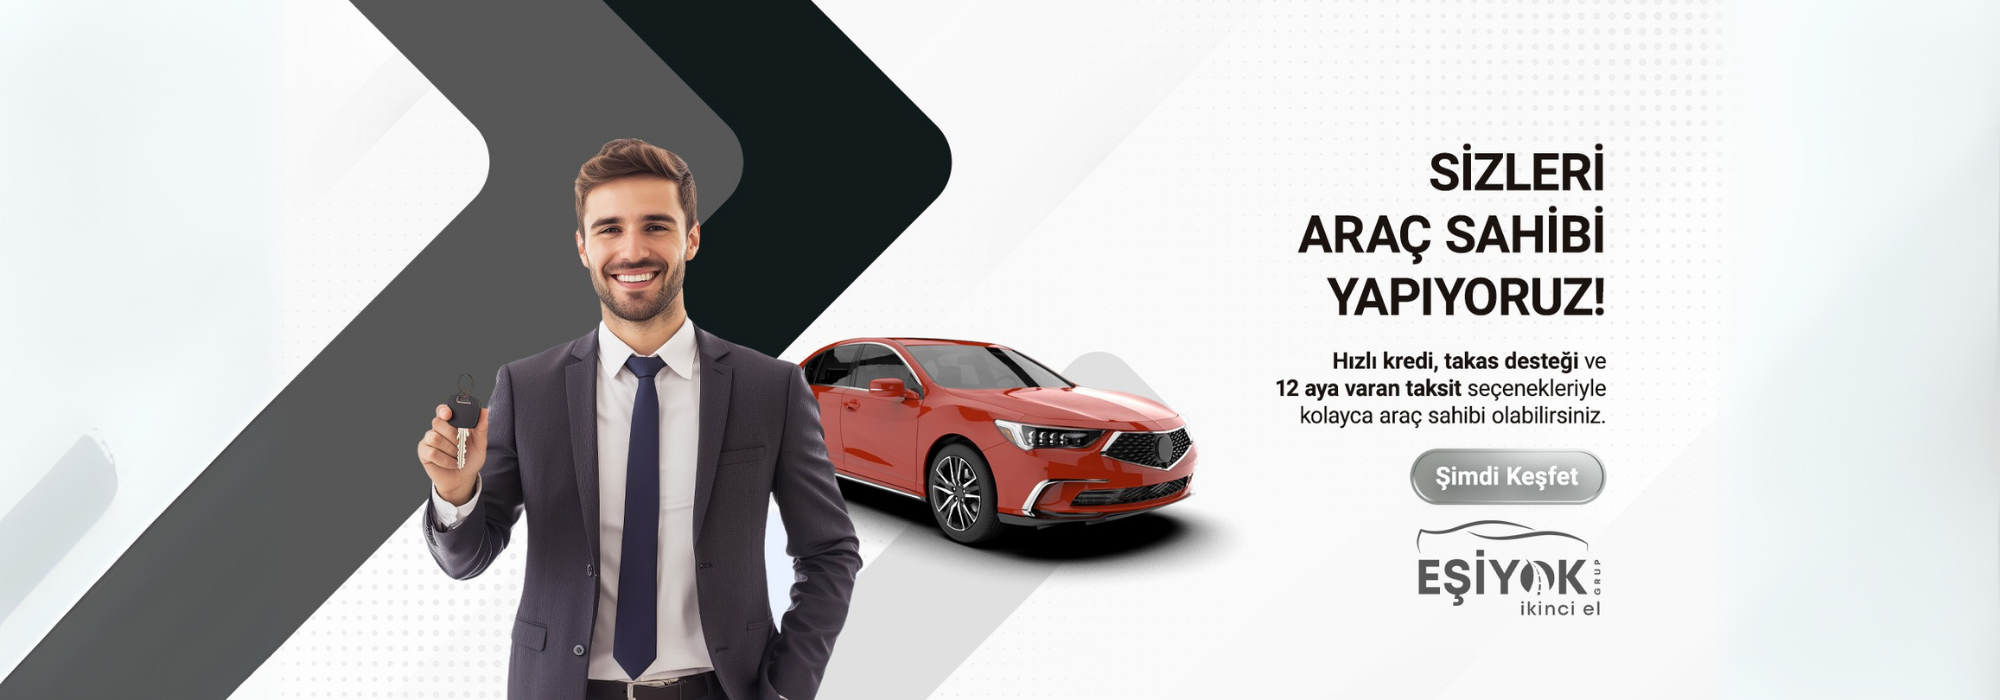
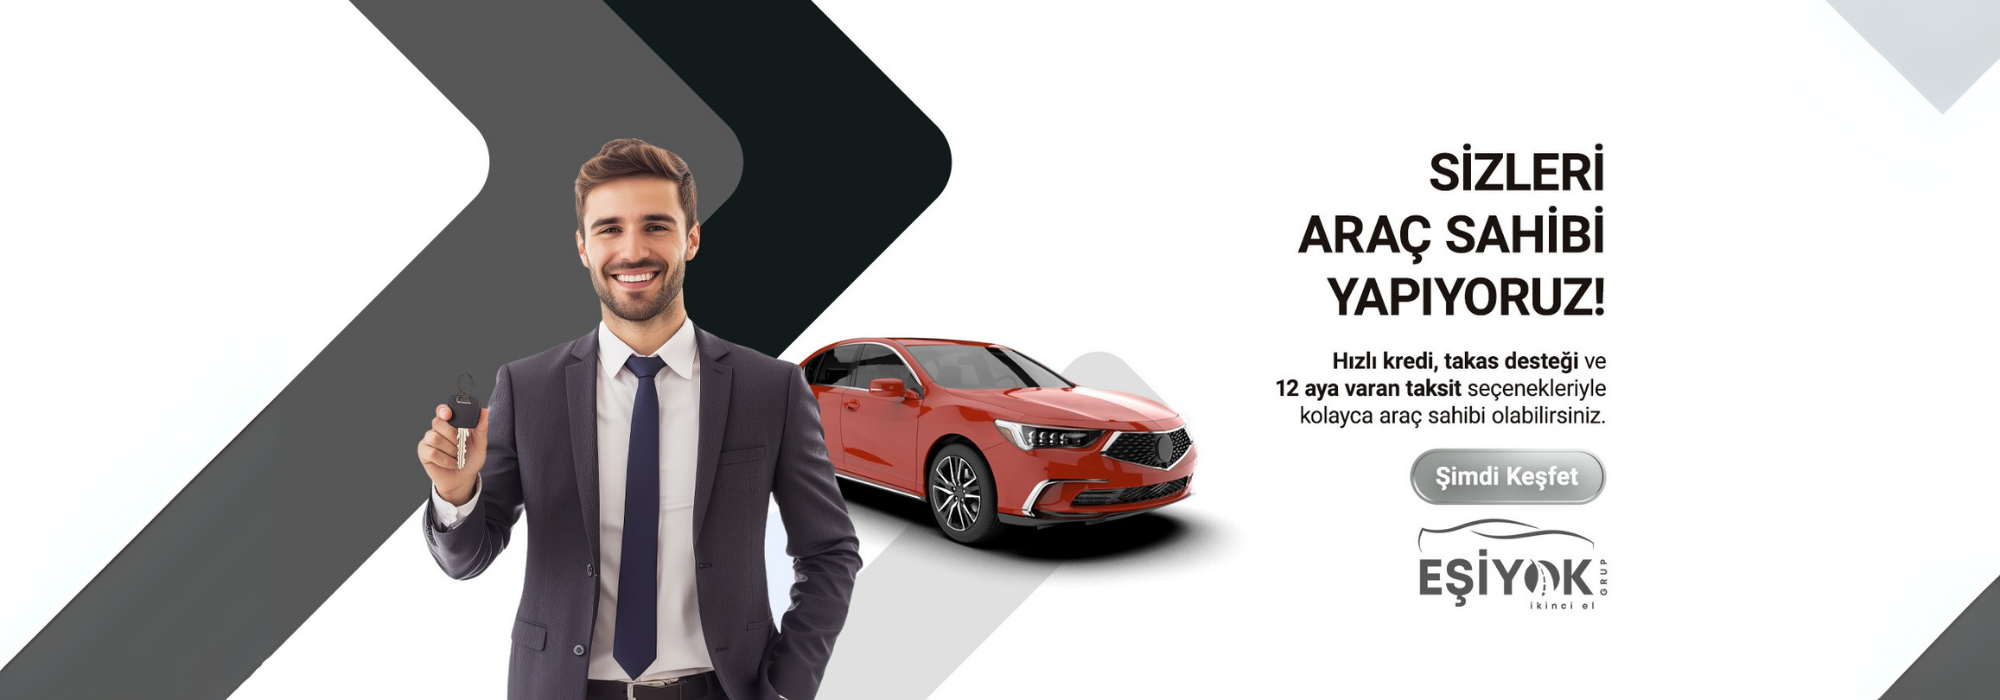
tekrarla

diff --git a/index.html b/index.html
@@ -234,7 +234,7 @@
 </div>
 
 <div id="swm" class="box" data-service-name="SWM">
-    <img src="assets/image/SWM.jpg" alt="Background 3" class="bg">
+    <img src="assets/image/22.png" alt="Background 3" class="bg">
     <img src="assets/image/swm.png" alt="Logo" class="logo">
 </div>
 
